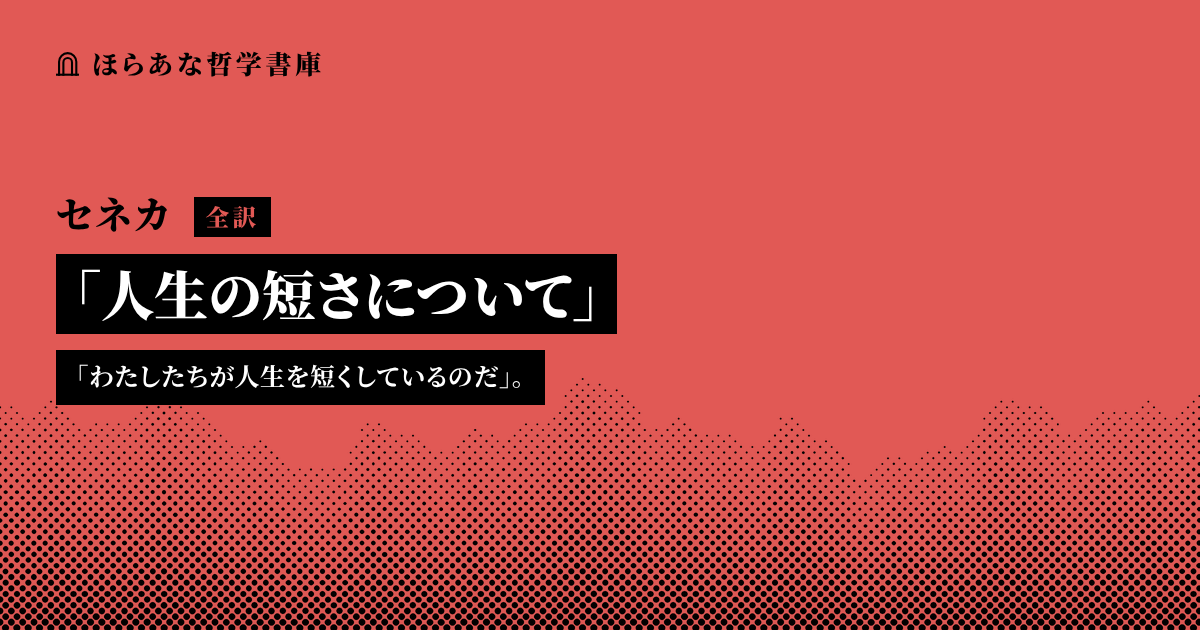
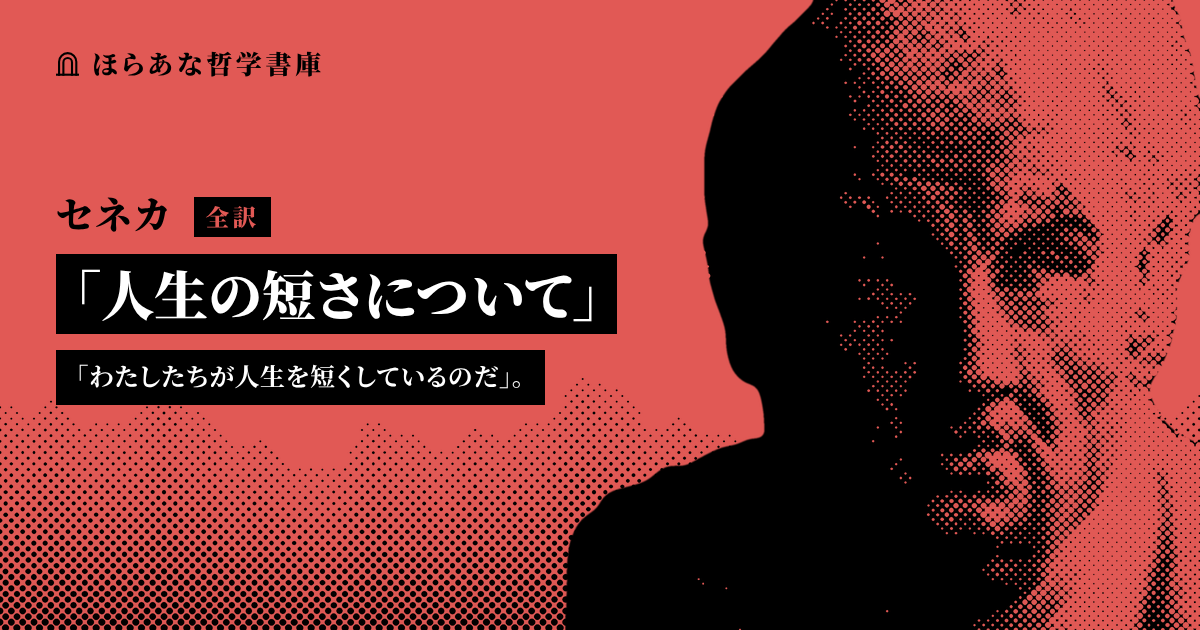
『人生の短さについて』の表紙と OGP 画像にセネカの肖像(ベルリンの二面胸像、CC BY 4.0)を入れる
Claude-Session: https://claude.ai/code/session_01SC2TMbJP9CCGAwyQMYDqfX

Changed region(s): [[0.4625, 0.0, 1.0, 1.0], [0.9558, 0.0, 0.9867, 0.0603]]

diff --git a/site.css b/site.css
@@ -268,7 +268,7 @@ footer {
 /* 表紙の色。_works/works.json の genre(genres の色)から作る */
 /* ここから自動生成(_tools/build.mjs) */
 .book-cover[data-cover="plato-apology"] { --cover: #e15955; --len: 8; --alen: 4; --glen: 4; background-image: url(art/plato-cover.png); }
-.book-cover[data-cover="seneca-brevitate"] { --cover: #e15955; --len: 9; --alen: 3; --glen: 4; }
+.book-cover[data-cover="seneca-brevitate"] { --cover: #e15955; --len: 9; --alen: 3; --glen: 4; background-image: url(art/seneca-cover.png); }
 .book-cover[data-cover="kant-aufklaerung"] { --cover: #139cb6; --len: 6; --alen: 3; --glen: 6; background-image: url(art/kant-cover.png); }
 .book-cover[data-cover="marx-manifest"] { --cover: #10a760; --len: 5; --alen: 10; --glen: 7; background-image: url(art/marx-cover.png); }
 .book-cover[data-cover="freud-difficulty"] { --cover: #dfb100; --len: 9; --alen: 4; --glen: 4; background-image: url(art/freud-cover.png); }
